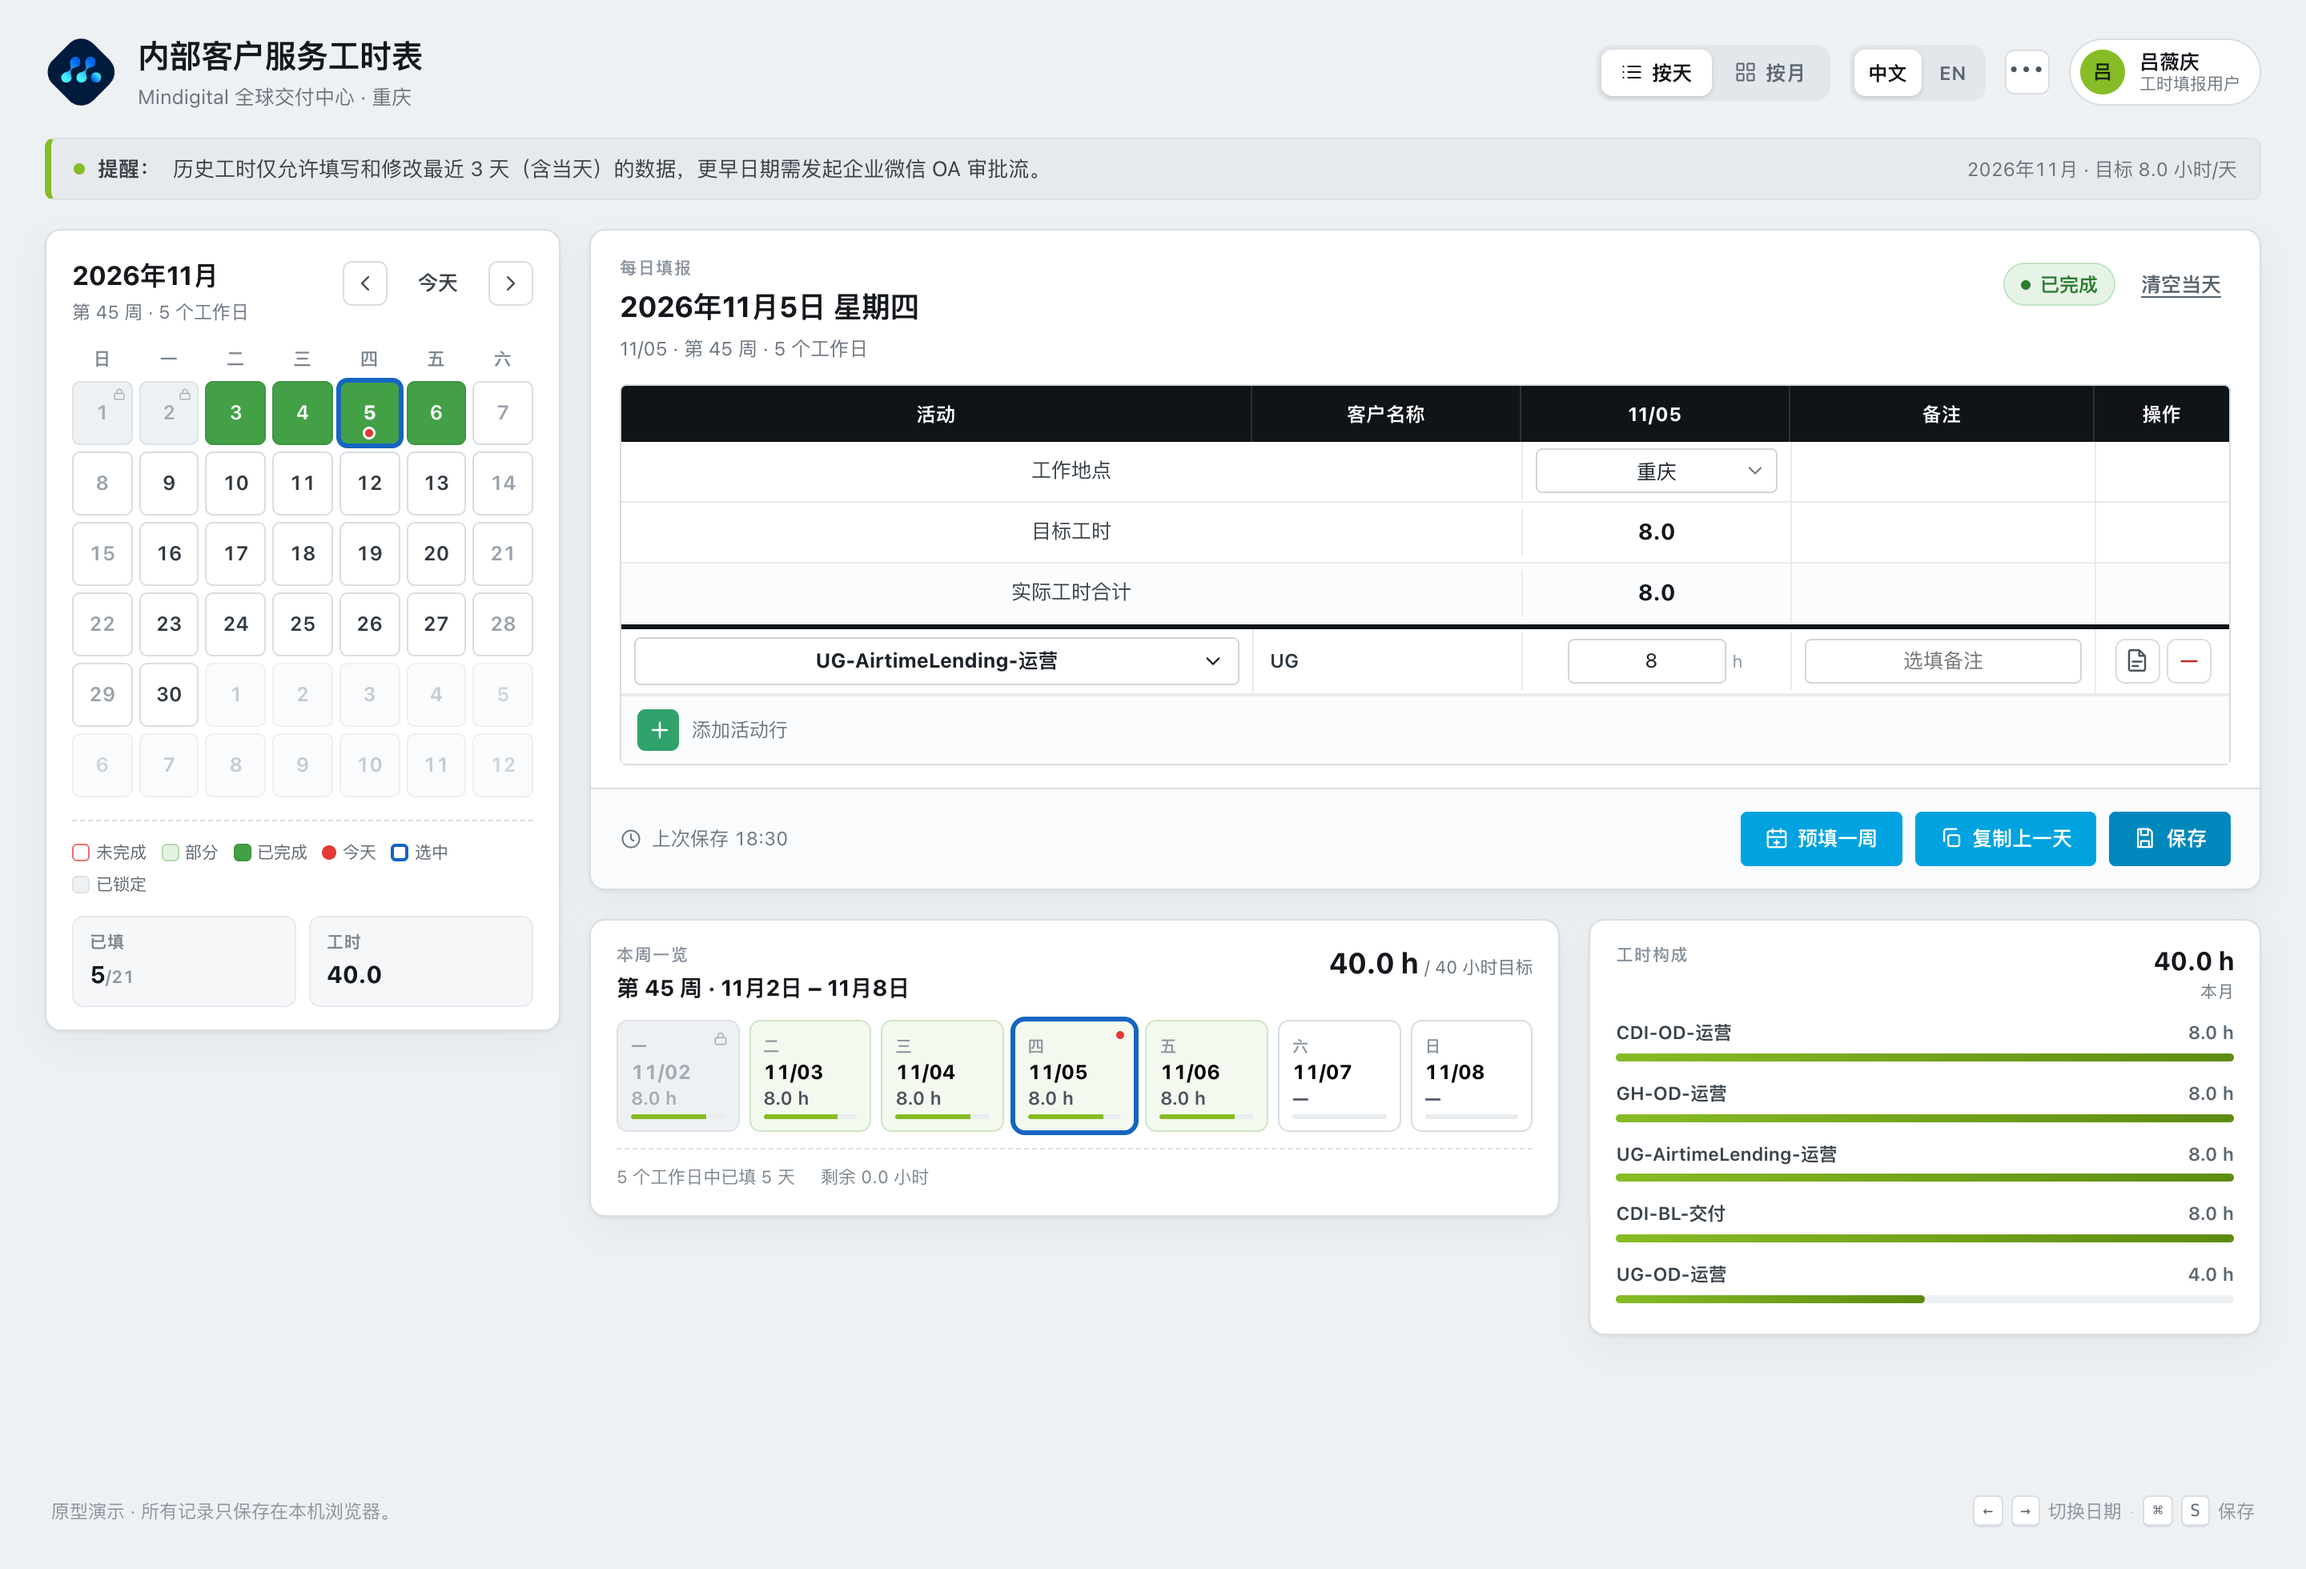
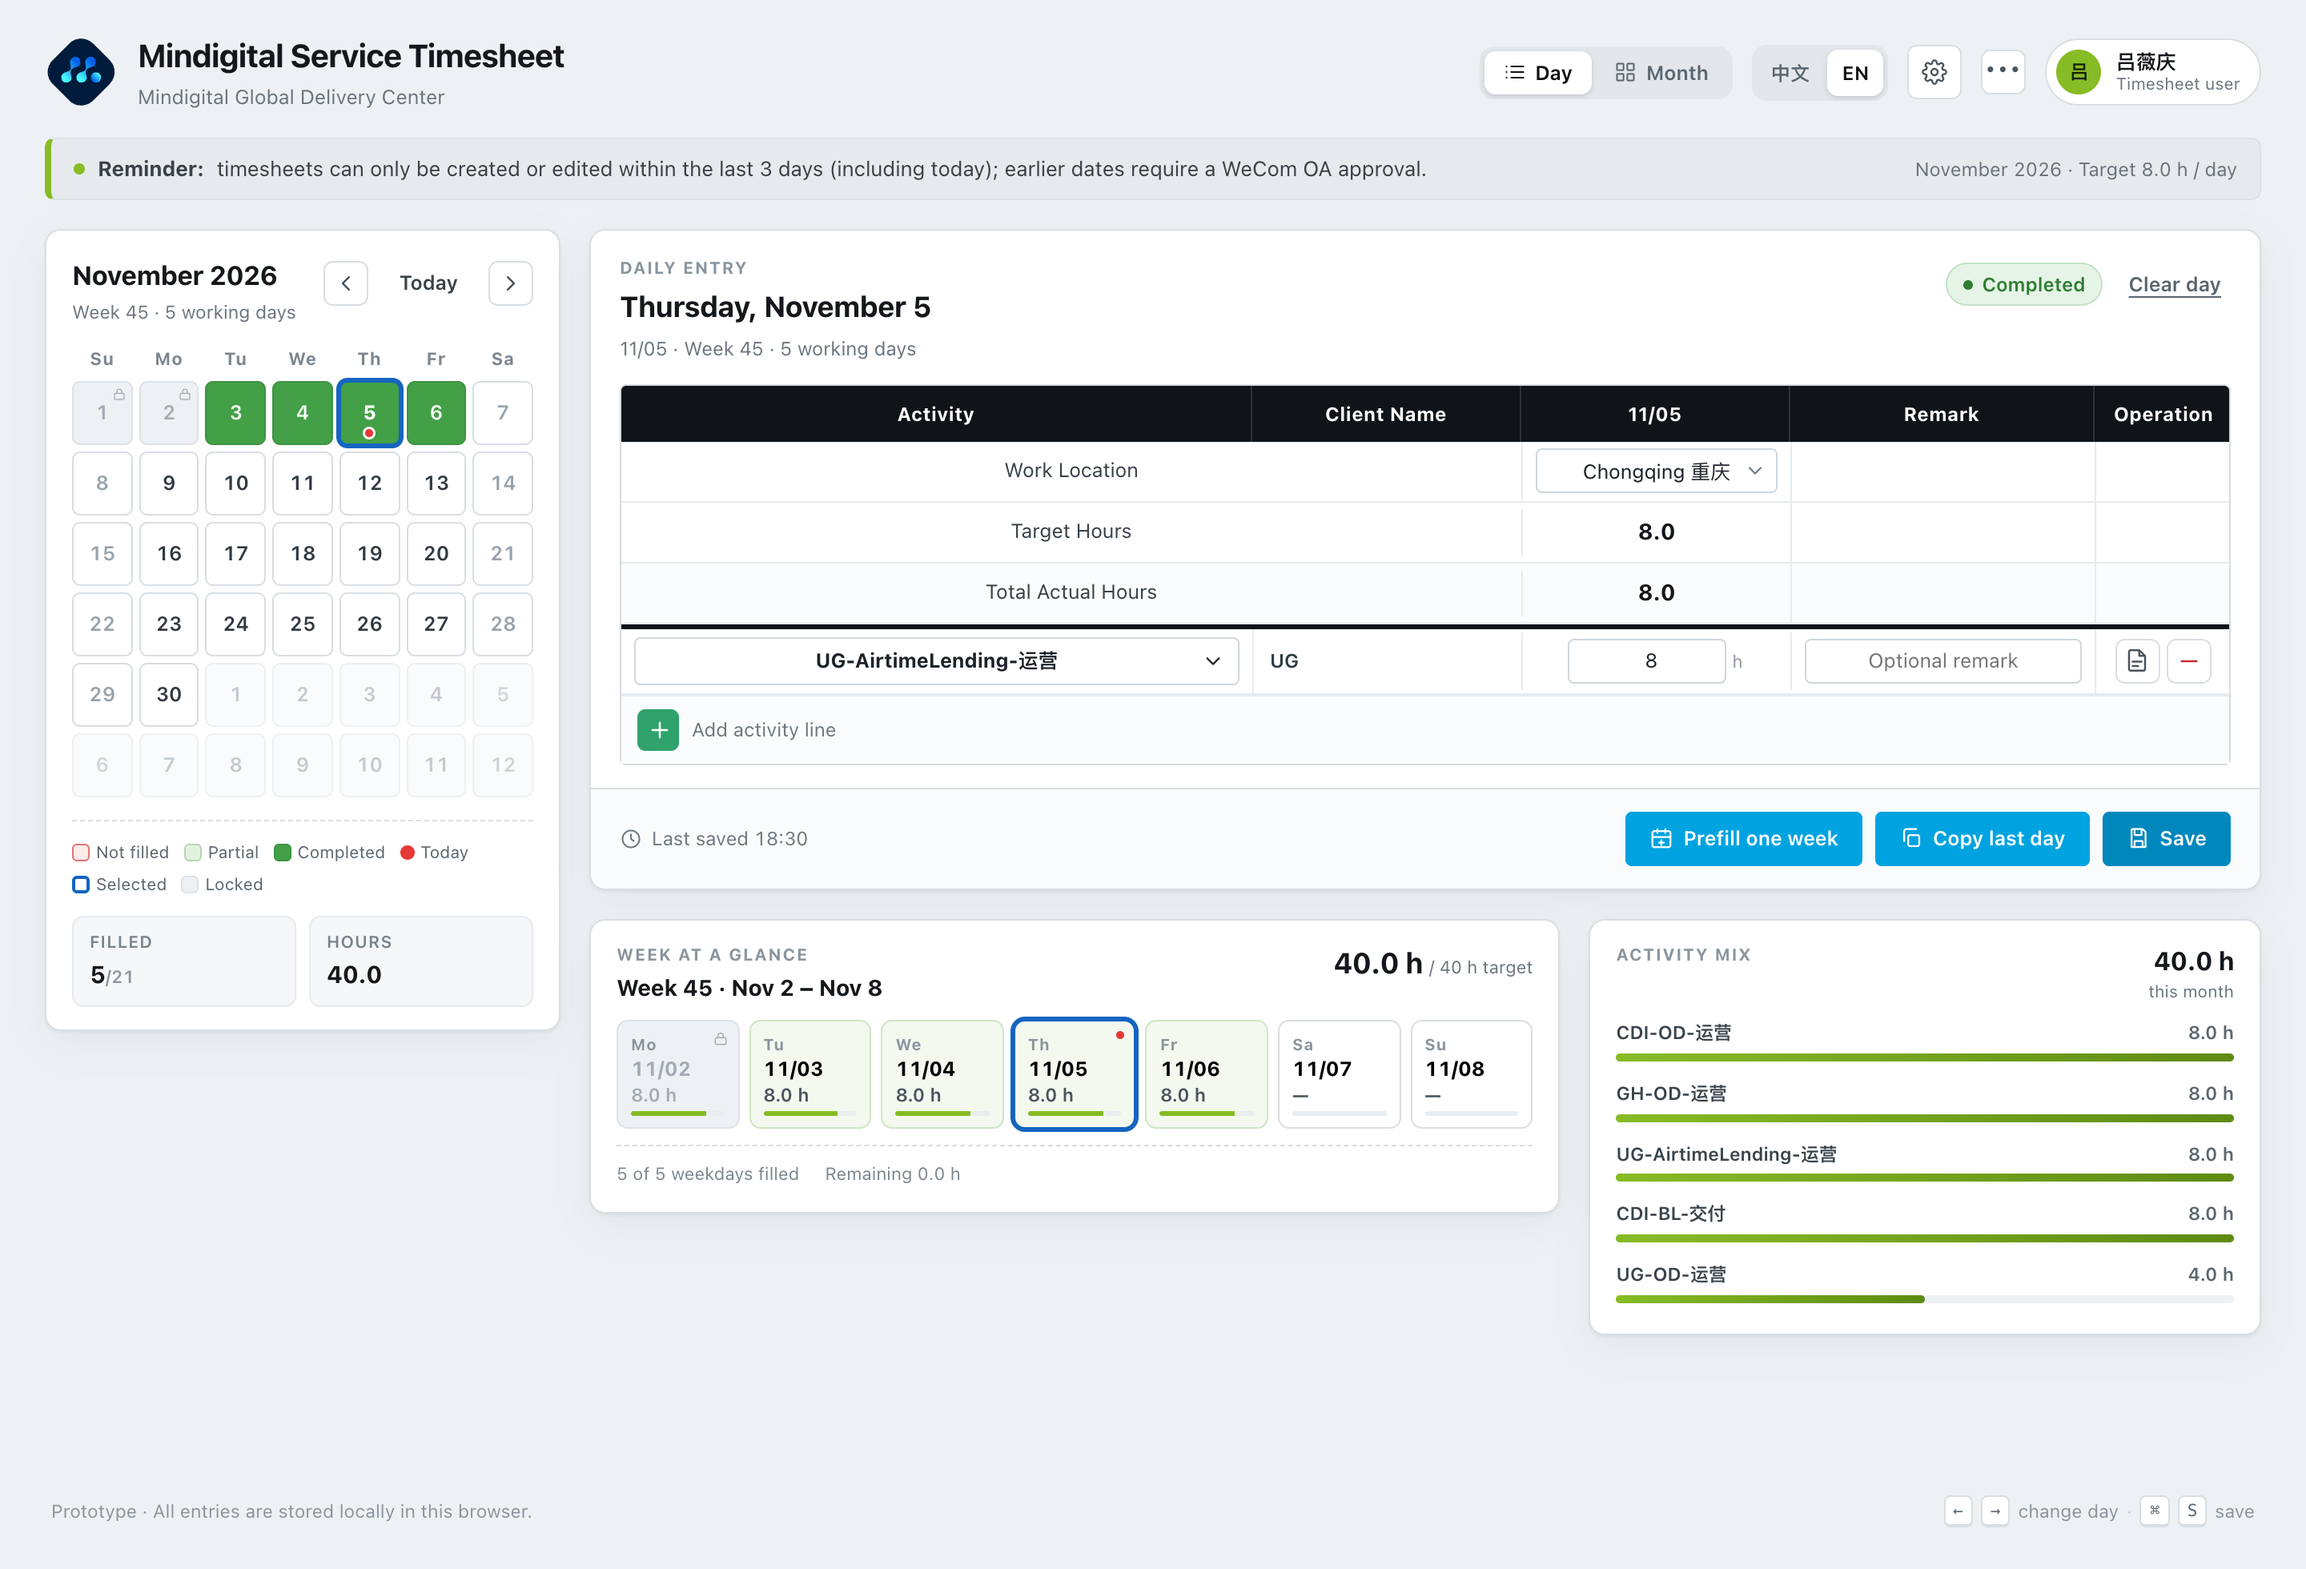
style(nav): 后台配置入口由白底文字按钮改为齿轮图标，紧邻更多操作

diff --git a/src/prototypes/timesheet/TimesheetApp.tsx b/src/prototypes/timesheet/TimesheetApp.tsx
@@ -385,14 +385,6 @@ export default function TimesheetApp() {
         </div>
 
         <div className="topbar-right">
-          <button
-            type="button"
-            className="btn btn-ghost nav-btn"
-            onClick={() => setPage(page === 'admin' ? 'timesheet' : 'admin')}
-          >
-            {page === 'admin' ? t('nav.timesheet') : t('nav.admin')}
-          </button>
-
           {page === 'timesheet' ? (
             <div className="seg" role="tablist" aria-label={t('app.day')}>
               <button
@@ -434,6 +426,16 @@ export default function TimesheetApp() {
               EN
             </button>
           </div>
+
+          <button
+            type="button"
+            className="icon-btn nav-btn"
+            aria-label={page === 'admin' ? t('nav.timesheet') : t('nav.admin')}
+            title={page === 'admin' ? t('nav.timesheet') : t('nav.admin')}
+            onClick={() => setPage(page === 'admin' ? 'timesheet' : 'admin')}
+          >
+            {page === 'admin' ? <Icon.ChevronLeft size={16} /> : <Icon.Settings size={16} />}
+          </button>
 
           <div className="menu-wrap" ref={menuRef}>
             <button

diff --git a/src/prototypes/timesheet/ui.tsx b/src/prototypes/timesheet/ui.tsx
@@ -131,6 +131,12 @@ export const Icon = {
       <path d="M8 6h13M8 12h13M8 18h13M3 6h.01M3 12h.01M3 18h.01" />
     </Svg>
   ),
+  Settings: (props: IconProps) => (
+    <Svg {...props}>
+      <circle cx="12" cy="12" r="3" />
+      <path d="M19.4 15a1.7 1.7 0 0 0 .34 1.87l.06.06a2 2 0 1 1-2.83 2.83l-.06-.06a1.7 1.7 0 0 0-1.87-.34 1.7 1.7 0 0 0-1.03 1.56V21a2 2 0 1 1-4 0v-.09a1.7 1.7 0 0 0-1.11-1.56 1.7 1.7 0 0 0-1.87.34l-.06.06A2 2 0 1 1 4.14 16.9l.06-.06a1.7 1.7 0 0 0 .34-1.87 1.7 1.7 0 0 0-1.56-1.03H3a2 2 0 1 1 0-4h.09A1.7 1.7 0 0 0 4.65 8.8a1.7 1.7 0 0 0-.34-1.87l-.06-.06A2 2 0 1 1 7.08 4.04l.06.06a1.7 1.7 0 0 0 1.87.34H9a1.7 1.7 0 0 0 1-1.56V3a2 2 0 1 1 4 0v.09a1.7 1.7 0 0 0 1.03 1.56 1.7 1.7 0 0 0 1.87-.34l.06-.06a2 2 0 1 1 2.83 2.83l-.06.06a1.7 1.7 0 0 0-.34 1.87V9a1.7 1.7 0 0 0 1.56 1H21a2 2 0 1 1 0 4h-.09a1.7 1.7 0 0 0-1.51 1z" />
+    </Svg>
+  ),
   Lock: (props: IconProps) => (
     <Svg {...props}>
       <rect x="4" y="10" width="16" height="10" rx="2" />

diff --git a/src/prototypes/timesheet/timesheet.css b/src/prototypes/timesheet/timesheet.css
@@ -1768,9 +1768,8 @@ input[type='number'] {
 /* ---------------- Admin page ---------------- */
 
 .nav-btn {
+  width: 34px;
   height: 34px;
-  padding: 0 12px;
-  font-size: 12.5px;
 }
 
 .admin-main {
